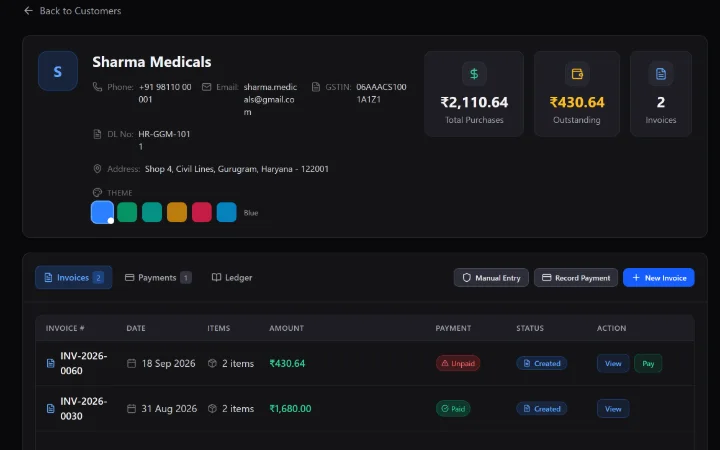
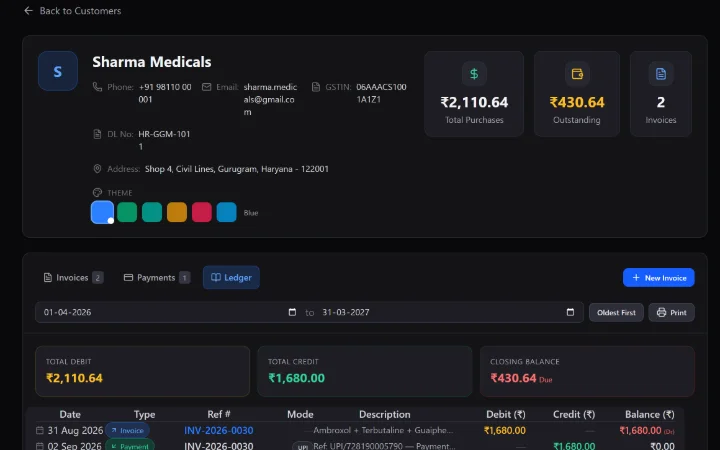
feat(landing): eliminate mobile image blurriness and capture customer ledger tab showcase

diff --git a/frontend/src/pages/Customers/CustomerDetailsPage.jsx b/frontend/src/pages/Customers/CustomerDetailsPage.jsx
@@ -1,5 +1,5 @@
-import { useEffect, useMemo, useRef, useState } from 'react';
-import { useParams, Link } from 'react-router-dom';
+import { useEffect, useRef, useState } from 'react';
+import { useParams, Link, useSearchParams } from 'react-router-dom';
 import { motion, AnimatePresence } from 'framer-motion';
 import { 
   ArrowLeft, 
@@ -295,7 +295,27 @@ export default function CustomerDetailsPage() {
   const motionConfig = useMotionConfig();
   const isFirstVisit = useFirstVisit('customer-details');
   const isDesktop = useMediaQuery('(min-width: 768px)');
-  const [activeTab, setActiveTab] = useState('invoices');
+  const [searchParams, setSearchParams] = useSearchParams();
+  const requestedTab = searchParams.get('tab');
+  const validInitialTab = requestedTab === 'ledger' || requestedTab === 'payments' || requestedTab === 'invoices' ? requestedTab : 'invoices';
+  const [activeTab, setActiveTab] = useState(validInitialTab);
+
+  const handleTabChange = (tabId) => {
+    setActiveTab(tabId);
+    setSearchParams((prev) => {
+      const next = new URLSearchParams(prev);
+      next.set('tab', tabId);
+      return next;
+    }, { replace: true });
+  };
+
+  useEffect(() => {
+    const currentParam = searchParams.get('tab');
+    if (currentParam && (currentParam === 'ledger' || currentParam === 'payments' || currentParam === 'invoices') && currentParam !== activeTab) {
+      setActiveTab(currentParam);
+    }
+  }, [searchParams, activeTab]);
+
   const [showPaymentModal, setShowPaymentModal] = useState(false);
   const [showEditPaymentModal, setShowEditPaymentModal] = useState(false);
   const [showManualEntryModal, setShowManualEntryModal] = useState(false);
@@ -800,7 +820,7 @@ export default function CustomerDetailsPage() {
                 return (
                   <button
                     key={tab.id}
-                    onClick={() => setActiveTab(tab.id)}
+                    onClick={() => handleTabChange(tab.id)}
                     className={`flex-shrink-0 flex items-center gap-1.5 px-3 py-2 rounded-lg transition-all text-sm ${
                       activeTab === tab.id
                         ? 'bg-blue-500/20 text-blue-400 border border-blue-500/30'

diff --git a/frontend/src/pages/Landing/components/ProductWindow.jsx b/frontend/src/pages/Landing/components/ProductWindow.jsx
@@ -62,13 +62,21 @@ export default function ProductWindow({
   );
 
   // Responsive image element with zero-CLS 16:10 aspect ratio
+  // Serves crisp high-DPR mobile WebP for viewports <= 768px (aligned with index.html preload)
+  // and full desktop WebP for wider screens, eliminating smartphone blurriness.
   const renderImage = (extraClasses = '') => (
     <picture className="block w-full h-full">
-      {resolvedSmallSrc && (
-        <source media="(max-width: 640px)" type="image/webp" srcSet={resolvedSmallSrc} />
-      )}
       {resolvedMobileSrc && (
-        <source media="(max-width: 768px)" type="image/webp" srcSet={resolvedMobileSrc} />
+        <source
+          media="(max-width: 768px)"
+          type="image/webp"
+          srcSet={
+            resolvedSmallSrc && resolvedSmallSrc !== resolvedMobileSrc
+              ? `${resolvedSmallSrc} 720w, ${resolvedMobileSrc} 1440w`
+              : resolvedMobileSrc
+          }
+          sizes="(max-width: 768px) 100vw, 768px"
+        />
       )}
       <source type="image/webp" srcSet={resolvedDesktopWebp} />
       <img

diff --git a/CHANGELOG.md b/CHANGELOG.md
@@ -6,9 +6,11 @@ For full release notes with implementation details, see [GitHub Releases](https:
 
 ## [v2.6.3](https://github.com/subhankar-das-phantom/Billing-Software/releases/tag/v2.6.3) — 2026-09-22 — Landing Page Final Refinement, Responsive 16:10 Mobile Crops & Defensible Product Copy
 
-### 📱 Mobile Showcase Composition & Focused 16:10 WebP Crops (`convertWebp.mjs`)
-- **Root Cause** — Source screenshots are 2880×1800 desktop views where the left 512px is dedicated to desktop navigation and margins. When scaled down to mobile viewports, high-value data surfaces (invoice tables, ledger entries, metric cards) became illegible.
-- **Centralized Visual Region Crops (`MOBILE_CROPS`)** — Implemented strict 16:10 aspect ratio crops (`1080×675` Retina and `720×450` fallback) that eliminate desktop navigation bars while isolating high-priority content:
+### 📱 Mobile Showcase Composition & 1440p Retina WebP Crops (`convertWebp.mjs`, `ProductWindow.jsx`)
+- **Root Cause of Mobile Blurriness** — In `ProductWindow.jsx`, a `<source media="(max-width: 640px)" srcSet={resolvedSmallSrc} />` rule unconditionally intercepted all modern smartphones (typical CSS widths 375px–430px) and forced them onto the 720×450 fallback tier (`*-sm.webp`). On 2x–3x DPR OLED/Retina mobile screens (e.g. 390px needing 1,170 physical pixels), the browser was forced to upscale a 720px image, causing noticeable blurriness and fuzzy text across all product showcases.
+- **1440p Retina Mobile Tier** — Upgraded `convertWebp.mjs` Tier 2 to render mobile crops at **1440×900** resolution (strict 16:10 aspect ratio) with **0.88 quality** (~42–74 KB). Provides 1:1 physical pixel coverage for 3x DPR mobile displays, eliminating blurriness while keeping network payload minimal.
+- **Symmetric Mobile Routing in `<picture>`** — Updated `ProductWindow.jsx` to route `<= 768px` directly to `resolvedMobileSrc` (1440w) with `sizes="(max-width: 768px) 100vw, 768px"`, eliminating the 720p lock-in on smartphones and aligning with `index.html`'s `<link rel="preload">` tag.
+- **Centralized Visual Region Crops (`MOBILE_CROPS`)** — Implemented strict 16:10 aspect ratio crops that eliminate desktop navigation bars while isolating high-priority content:
   - `dashboard`: Focuses on top KPI cards, comparative trend curve, and cash flow donut chart.
   - `invoice`: Tight focus on tax invoice bill layout, customer GSTIN, HSN breakdown, and dual-copy printing preview.
   - `inventory`: Focuses on catalog status counters and multi-batch stock tables with expiry dates.
@@ -17,6 +19,10 @@ For full release notes with implementation details, see [GitHub Releases](https:
   - `purchases`: Captures procurement metrics counters, search filters, and purchase orders table.
 - **Immutable Source PNG Integrity Guard** — Added SHA-256 pre- and post-generation checksum verification in `convertWebp.mjs`. All 6 original 2880×1800 source PNG files are strictly verified immutable with zero bytes altered.
 - **Environment-Safe Portable Browser Discovery** — Implemented robust discovery prioritizing `PUPPETEER_EXECUTABLE_PATH` / `CHROME_BIN`, Puppeteer bundled executable, platform-native discovery (`where.exe` on Windows, `which` on macOS/Linux), and candidate fallbacks.
+
+### 📖 Customer Ledger Showcase Re-Capture & Deep-Link Tab Support (`CustomerDetailsPage.jsx`)
+- **Ledger Tab Deep Linking** — Enhanced `CustomerDetailsPage.jsx` with `useSearchParams` to read and synchronize `?tab=ledger | payments | invoices`. Deep-linking or navigating directly to `/customers/:id?tab=ledger` now opens the customer's financial statement directly.
+- **Authentic Ledger Capture** — Re-captured `customer-ledger.png` (and generated `customer-ledger.webp`, `customer-ledger-mobile.webp`, and `customer-ledger-sm.webp`) with the **Ledger** tab active, displaying the customer's running Debit, Credit, and Balance ledger table along with Total Debit (`₹2,110.64`), Total Credit (`₹1,680.00`), and Closing Balance (`₹430.64 Due`) cards instead of the invoice list.
 
 ### 🖼 ProductWindow Visual Hierarchy & Layout Rhythm (`ProductWindow.jsx`)
 - **Visual De-Monotonization** — Introduced 4 distinct framing variants to eliminate repetitive macOS browser chrome across sections:
@@ -42,12 +48,14 @@ For full release notes with implementation details, see [GitHub Releases](https:
 - **Pure White Contrast Preservation** — Replaced `text-slate-100`, `text-slate-200`, and accent icon colors with explicit `text-white` on the container, `<p>`, and icon elements across `AuthContext.jsx` and `ToastContext.jsx`. Toast notifications now maintain 100% white, high-contrast typography across both light and dark themes.
 
 ### 📁 Files Modified
-- `backend/scripts/convertWebp.mjs` — Added cross-platform browser discovery, centralized `MOBILE_CROPS`, and SHA-256 pre/post checksum verification.
+- `backend/scripts/captureShowcaseScreenshots.mjs` — Updated Screen 4 to capture `/customers/:id?tab=ledger` with cross-platform browser resolution.
+- `backend/scripts/convertWebp.mjs` — Upgraded mobile output to 1440×900 Retina tier @ 0.88 quality with pre/post SHA-256 checksum verification.
 - `backend/saas/controllers/planController.ts` — Supported `SHOWCASE_TENANT_ID` with fallback to `SHOWCASE_ADMIN_EMAIL`.
-- `frontend/public/landing/product/*.webp` — Generated responsive 16:10 WebP crops (Desktop 1920×1200, Mobile 1080×675, Small 720×450).
+- `frontend/public/landing/product/*.webp` — Generated responsive 16:10 WebP crops (Desktop 1920×1200, Mobile 1440×900, Small 720×450) with customer ledger tab active.
 - `frontend/src/contexts/AuthContext.jsx` — Fixed toast typography to `text-white` on saturated backgrounds in light mode.
 - `frontend/src/contexts/ToastContext.jsx` — Ensured `text-white` on generic toasts and icons.
-- `frontend/src/pages/Landing/components/ProductWindow.jsx` — Added 4 distinct framing variants, layout-derived `sizes`, steady status indicators, and explicit asset props.
+- `frontend/src/pages/Customers/CustomerDetailsPage.jsx` — Added `?tab=ledger` URL parameter deep-link support and tab synchronization.
+- `frontend/src/pages/Landing/components/ProductWindow.jsx` — Removed low-res mobile lock-in and routed `<= 768px` to 1440w mobile Retina tier.
 - `frontend/src/pages/Landing/components/HeroSection.jsx` — Explicit WebP paths, descriptive alt text, steady status chip.
 - `frontend/src/pages/Landing/components/BillingShowcase.jsx` — Applied `editorial` variant, factual GST copy, descriptive alt text.
 - `frontend/src/pages/Landing/components/InventoryShowcase.jsx` — Applied `standard` variant, explicit WebP paths, descriptive alt text.
